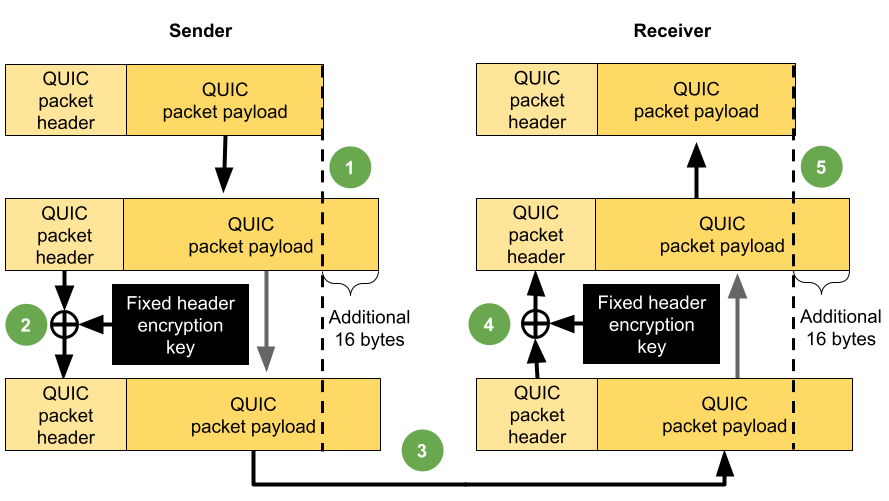
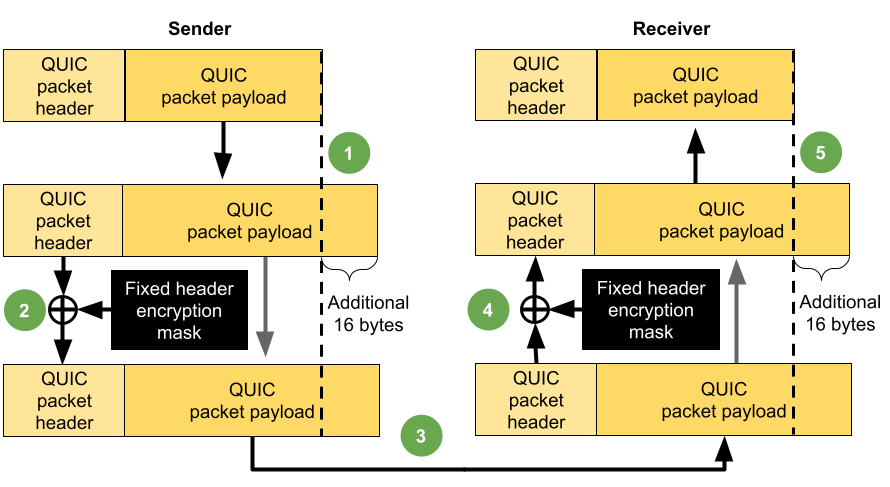
Described existing and my crypto

Changed region(s): [[0.0, 0.0308, 1.0, 0.9856]]

diff --git a/diss.tex b/diss.tex
@@ -1450,25 +1450,19 @@ Furthermore, the testing environment setup became more predictable, allowing per
 As I have already mentioned in \S~\ref{QUIC_details_section}, \texttt{QUIC} uses encryption by default.
 It encrypts both the payloads of the packets and some fields in the packet headers.
 A simplified high-level overview of \texttt{QUIC} packet encryption and decryption is demonstrated in Figure~\ref{fig:Cryptographic_procedures_of_quic}.
-
-At first, the sender encrypts the \texttt{QUIC} packet payload by using both the plain text payload and 16-byte long authentication tag~\cite[Section 5]{ietf-quic-tls-32}. 
-% The authentication tag depends on the Destination connection ID, Initiail Salt and other cryptographic parameters.
-% In this stage, the produced  cyphertext  is 16 bytes longer than the provided plaintext because the cyphertext has to accomodate both the plaintext and the authentication tag~\cite[Section 5.3]{ietf-quic-tls-32}
-% 2. Encrypt packet header with a 5 byte long mask.
-%  \texttt{QUIC} packet protection key is derived in a different way than header protection key so they are different
-% Header encryption is performed by \texttt{XORing} relevant packet header fields (e.g., packet number) with the associated header encryption key.
-% 3. Send encrypted packet 
-% 4. Receiver has to do the steps in reverse - decrypt header and then payload
-
-
-\simon{Describe Figure~\ref{fig:Cryptographic_procedures_of_quic}}
-
-
-\simon{\url{https://tools.ietf.org/html/draft-ietf-quic-tls-32} section-5.4 describes header encryption}
+At first, the sender encrypts the \texttt{QUIC} packet payload by using 16-byte long authentication tag~\cite[Section 5]{ietf-quic-tls-32}. 
+The authentication tag depends on the destination connection ID, initial salt value and other cryptographic parameters~\cite[Section 5]{ietf-quic-tls-32}.
+In this stage, the produced ciphertext is 16 bytes longer than the provided plain text because the ciphertext has to accommodate both the plain text and the authentication tag~\cite[Section 5.3]{ietf-quic-tls-32}.
+Then, the packet header is encrypted with a 5-byte long mask.
+This mask is derived from the header protection key and several sampled bytes from the ciphertext that was produced in the earlier steps~\cite[Section 5]{ietf-quic-tls-32}. 
+%  \texttt{QUIC} packet protection key is   key so they are different
+Header encryption is performed by \texttt{XORing} relevant packet header fields (e.g., packet number) with the associated header encryption mask~\cite[Section 5]{ietf-quic-tls-32}.
+After that, the encrypted packet is sent over the potentially insecure channel.
+To decrypt the contents of \texttt{QUIC} packets receiver has to do the steps by first decrypting the header and then the payload.
 
     \begin{figure}[H]
     \centering
-    \includegraphics[width=0.95\textwidth]{figs/Cryptographic_procedures_of_quic.png}
+    \includegraphics[width=0.97\textwidth]{figs/Cryptographic_procedures_of_quic.png}
     \caption[Original process of encrypting, transferring and decrypting \texttt{QUIC} packet]{Original process of encrypting (e.g., steps 1 and 2), transferring  (e.g., steps 3) and decrypting (e.g., steps 4 and 5) \texttt{QUIC} packet. Diagram summarises relevant sections of \texttt{IETF} \texttt{QUIC-TLS} draft~\cite[Section 5]{ietf-quic-tls-32}}
     \label{fig:Cryptographic_procedures_of_quic}
     \end{figure}
@@ -1477,30 +1471,23 @@ At first, the sender encrypts the \texttt{QUIC} packet payload by using both the
 However, \texttt{QUIC} encryption and decryption operations are computationally expensive and, under certain circumstances, they could form a performance bottleneck of \texttt{QUIC}~\cite{Making_QUIC_Quicker}.
 To validate this claim, I had to measure the impact of cryptographic operations on \texttt{QUIC's} performance by comparing the throughput between the two server-client pairs.
 One pair had to use standard encryption and decryption procedures, while another had to exchange unencrypted packets.
-I achieved this by implementing logic that can turn on null encryption on \texttt{ngtcp2}.
-
-
-
-
-
-\simon{Explain my solution}
-
-% 1. Short circuit payload encryption
-% 2. Header encryption key is generated by sampling first few hundred bytes of the encrypted packet
-% 3. In order to avoid this and ensure that packets are completely transparent, I also disable header encryption.
-% However, headers  are still XORed with a fixed 5byte long mask
-% But my implementation avoids sampling procedure?? (to check) required to generate the header encryption key in the first place
-% Alternatively, I could have even removed the function calls that are used to encrypt QUIC packet headers.
-% But QUIC is a complex protocol (people complain about its complexity), so removal of these functions could have had any additional unintented side effects that could have lead to the protocol errors.
-% Headers are negligible compared with the payloads so futrther performance optimisations would have provided only limited performance improvements.
-
-In essence, null encryption is a technique that effectively turns off encryption by encrypting/decrypting the data by ``XOR"ing the data with a key made entirely of zeroes (which leaves the data unchanged). 
-
+I achieved this by implementing logic that can turn on null encryption on \texttt{ngtcp2} (see Figure~\ref{fig:my_implementation_of_cryptographic_procedures_of_quic}).
+I remove the encryption of \texttt{QUIC} packets by short-circuiting associated functions.
+However, to preserve the payload format, I had to pad unencrypted payloads with sixteen zeroes.
+Usually, the header encryption key is generated by sampling the first few hundred bytes of the encrypted packet~\cite[Section 5.4.1]{ietf-quic-tls-32}. 
+In order to avoid this and ensure that packets are also completely transparent, I disabled header encryption by replacing the header encryption mask with a string of zeroes.
+But exclusive-or operation performed on a sequence of zeroes preserves the original sequence of bits intact.
+On the one hand, packet headers are still \texttt{XORed} with a fixed 5-byte long mask.
+On the other hand, my implementation avoids the sampling procedure required to generate the header encryption key in the first place.
+Alternatively, I could have even removed the function calls used to encrypt \texttt{QUIC} packet headers.
+However, \texttt{QUIC} is a complex protocol, so removing these functions could have had additional unintended side effects that could have led to protocol errors.
+\simon{ (people complain about QUIC's complexity) - find source  }
+Finally, \texttt{QUIC} headers are relatively small compared with the packet payloads, so further performance optimisations dealing with header encryption would have provided only limited performance improvements.
 
 
     \begin{figure}[H]
     \centering
-    \includegraphics[width=0.95\textwidth]{figs/my_implementation_of_cryptographic_procedures_of_quic.png}
+    \includegraphics[width=0.97\textwidth]{figs/my_implementation_of_cryptographic_procedures_of_quic.png}
     \caption[My implementation of disabled encryption]{My implementation of disabled encryption}
     \label{fig:my_implementation_of_cryptographic_procedures_of_quic}
     \end{figure}
@@ -1518,6 +1505,8 @@ In essence, null encryption is a technique that effectively turns off encryption
 
 % TODO
 \simon{TODO -- say which cryptographic operations are performed and which ones are omitted when using my implementation of null-crypto}
+
+
 
 
 % TODO
@@ -1614,7 +1603,7 @@ To measure \texttt{QUIC} performance under different conditions, a network emula
     As we can see from Figure~\ref{fig:Physical_testing_environment}, both \texttt{QUIC} client and server operate on different virtual network namespaces which do not have shared point-to-point links.
     Client and server are assigned different network subnets.
     Subnets use private \texttt{IPv4} addresses~\cite{rfc1918}.
-    The purpose of these addresses is to prevent experiments from interfering with the college network and prevent interference of external packets in the experiments.
+    The purpose of these addresses is to prevent experiments and the college network from interfering with one another.
     An intermediate machine (B) is configured as the default gateway for both virtual network namespaces.
     As a result, all the packets between the \texttt{QUIC} server and client have to travel via an intermediate machine (B).
     Here, depending on the experiment, network perturbations (e.g. packet loss, delay, reordering) may be introduced.
